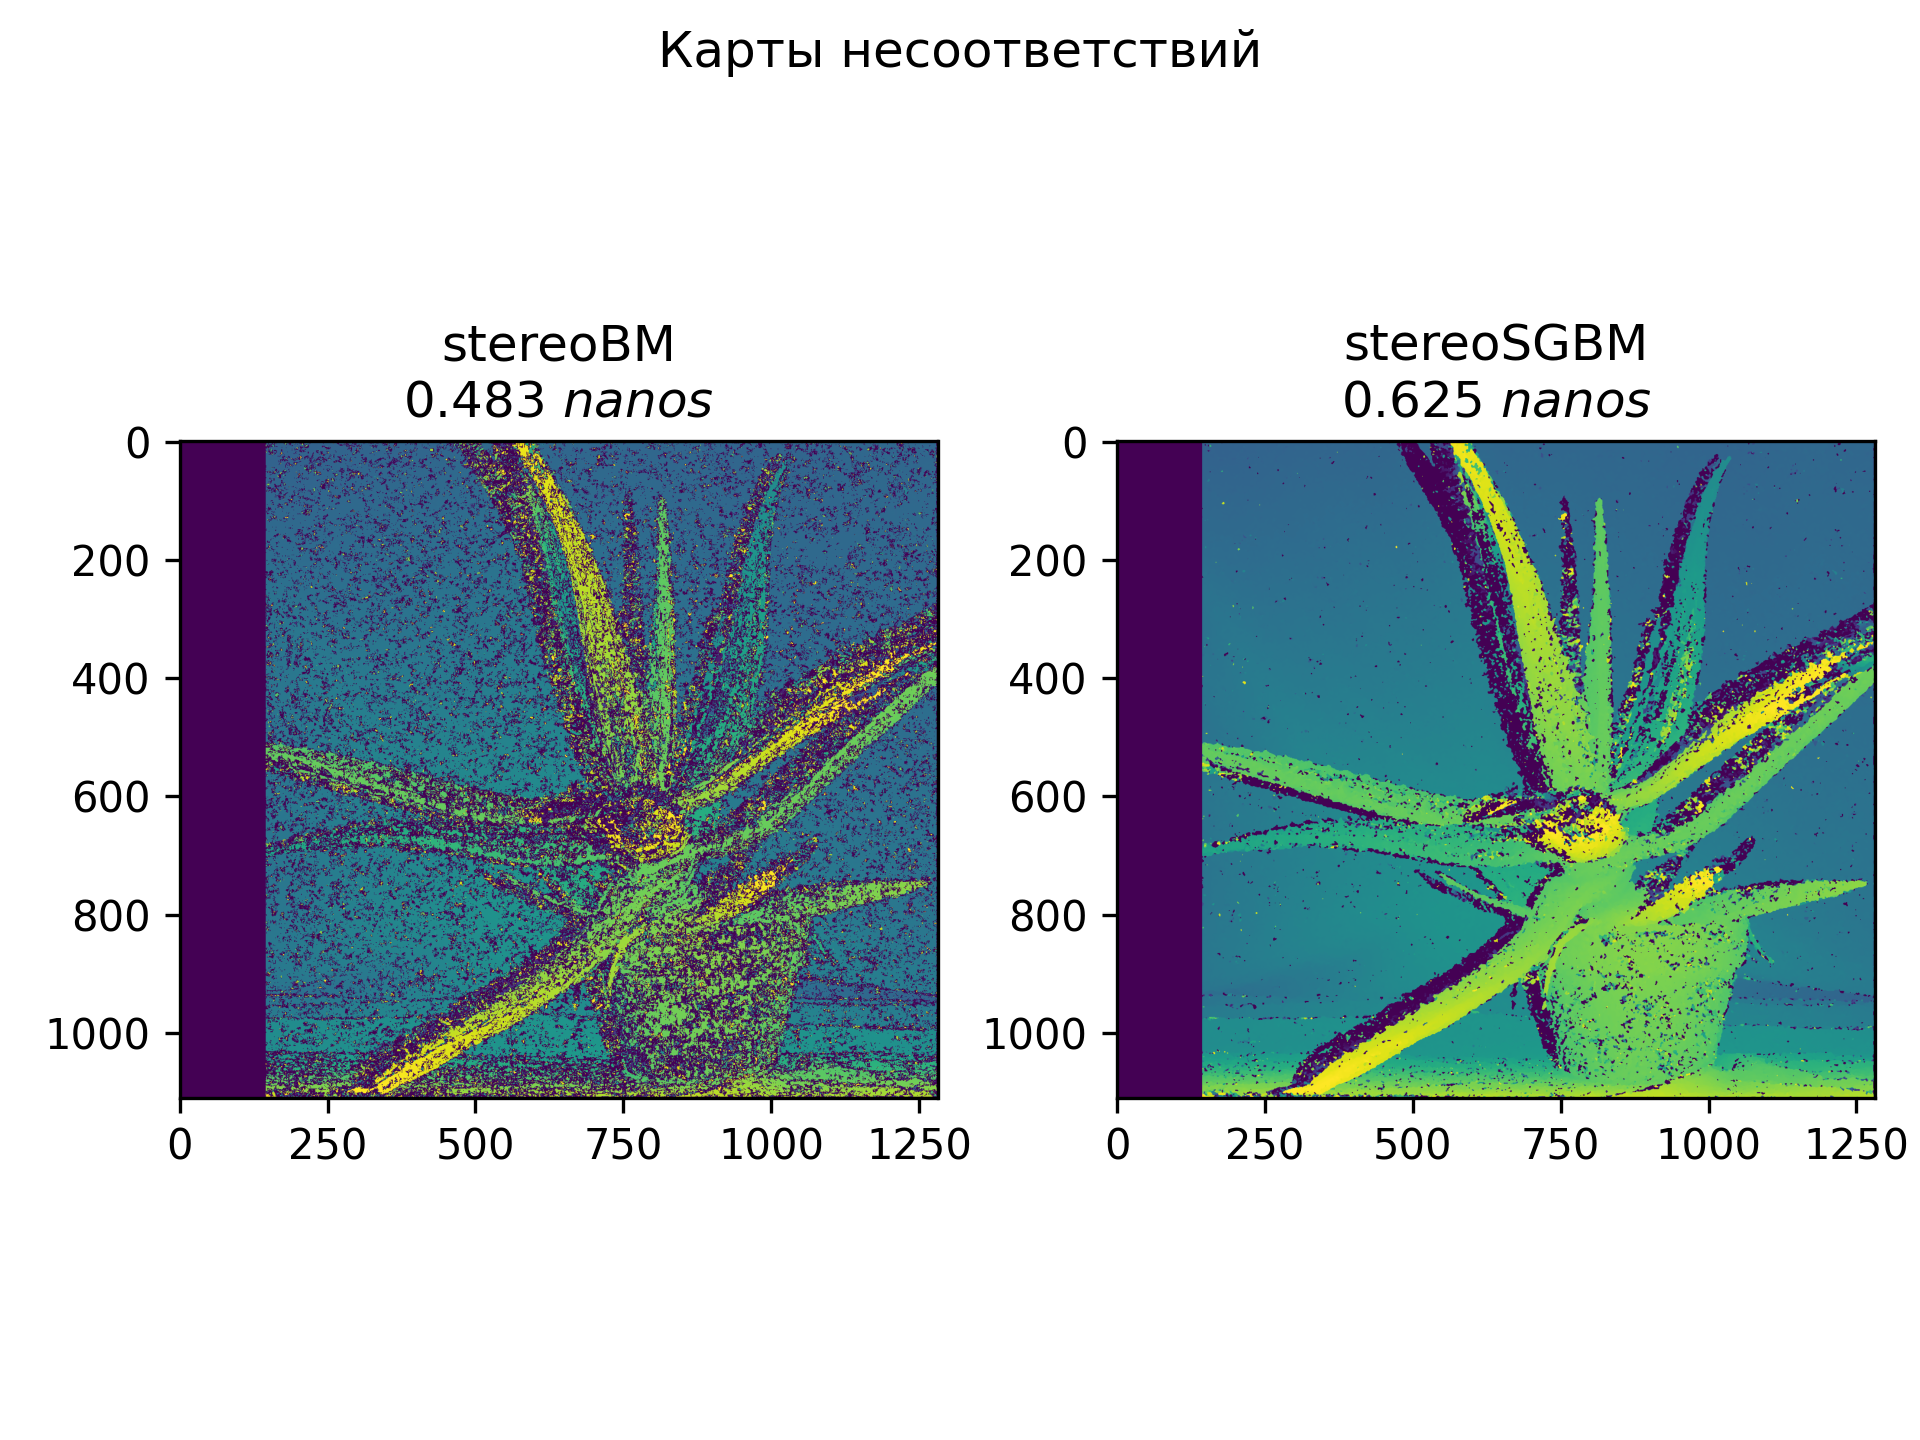
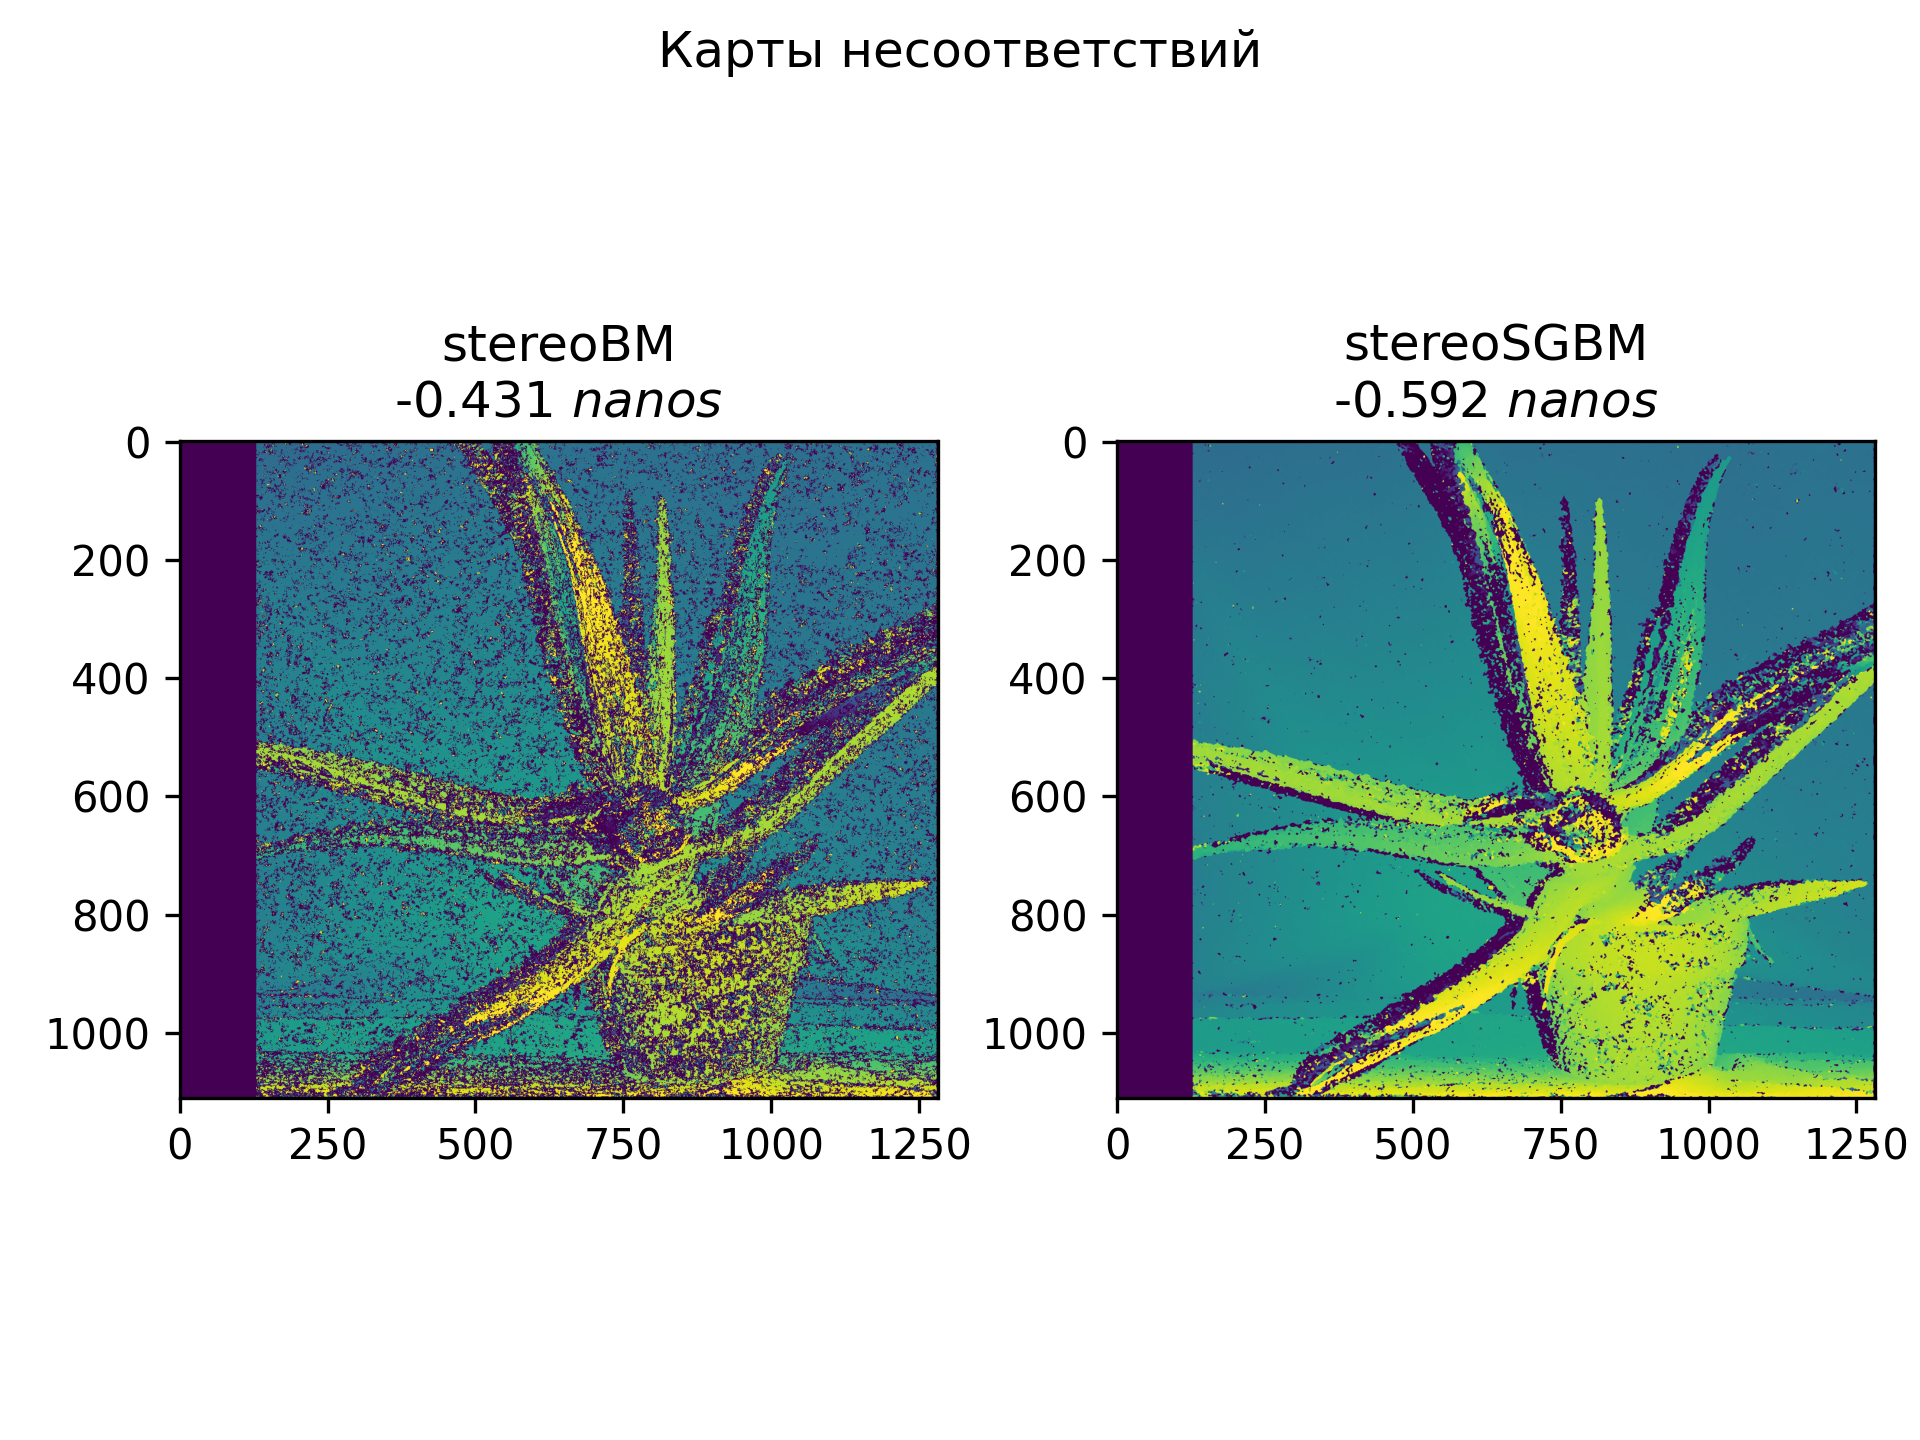
TODO added for fueiret(Good luck=))

Changed region(s): [[0.125, 0.25, 0.5, 0.7812], [0.5938, 0.25, 1.0, 0.7812]]

diff --git a/exp/main.py b/exp/main.py
@@ -1,0 +1,113 @@
+import numpy as np
+import cv2
+import matplotlib.pyplot as plt
+import matplotlib
+import time
+
+#============================Входные данные============================
+
+f = 1040.0              # фокусное расстояние (в пикселях)
+baseline = 85           # расстояние между камерами
+numDisparities = 128    # параметры поиска несоответсвий
+blockSize = 5           #
+scale = 0.8             # соотношение условных единиц глубины с реальными
+
+
+leftImageRaw = cv2.imread('../RobotDogStereoDemo/opencv_samples/aloeL.jpg')      # тестовые изображения
+rightImageRaw = cv2.imread('../RobotDogStereoDemo/opencv_samples/aloeR.jpg')     #
+
+
+#============================Получение карты несоответствий(BM and SGBM)============================
+
+
+leftImage = cv2.cvtColor(leftImageRaw, cv2.COLOR_BGR2GRAY)      # переводим в градации серого
+rightImage = cv2.cvtColor(rightImageRaw, cv2.COLOR_BGR2GRAY)    #
+
+bm_time_begin_dis = time.process_time()
+
+stereoBM = cv2.StereoBM_create(numDisparities=numDisparities, blockSize=blockSize)
+disparityBM = stereoBM.compute(leftImage, rightImage)   # получаем карту несоответствий
+
+bm_time_end_dis = time.process_time()
+dis_elapsed1 = (bm_time_begin_dis - bm_time_end_dis)
+
+sgbm_time_begin_dis = time.process_time()
+
+stereoSGBM = cv2.StereoSGBM_create(numDisparities=numDisparities, blockSize=blockSize)
+disparitySGBM = stereoSGBM.compute(leftImage, rightImage)   # получаем карту несоответствий
+
+sgbm_time_end_dis = time.process_time()
+dis_elapsed2 = (sgbm_time_begin_dis - sgbm_time_end_dis)
+
+fig, (dis_bm, dis_sgbm) = plt.subplots(1, 2)
+
+dis_bm.set_title(f'stereoBM\n{dis_elapsed1:.3f} $nano s$')
+dis_bm.imshow(disparityBM)
+
+dis_sgbm.set_title(f'stereoSGBM\n{dis_elapsed2:.3f} $nano s$')
+dis_sgbm.imshow(disparitySGBM)
+
+plt.suptitle("Карты несоответствий")
+plt.tight_layout()
+plt.savefig("../CV/figs/disparity_bm_vs_sgbm.png", dpi=300)
+plt.show()
+
+#============================Получение карты глубин============================
+
+validPixelsBM = disparityBM > 0     # избавляемся от деления на 0
+
+bm_time_begin_dep = time.process_time()
+
+depthBM = np.zeros(shape=leftImage.shape).astype("uint8")
+depthBM[validPixelsBM] = (f * baseline) / (scale * disparityBM[validPixelsBM])
+
+bm_time_end_dep = time.process_time()
+dep_elapsed1 = (bm_time_begin_dep - bm_time_end_dep)
+
+#Наводим красоты
+depthBM = cv2.equalizeHist(depthBM)
+colorDepthBM = np.zeros((leftImage.shape[0], leftImage.shape[1], 3), dtype="uint8")
+tmp = cv2.applyColorMap(depthBM, cv2.COLORMAP_JET)
+colorDepthBM[validPixelsBM] = tmp[validPixelsBM]
+
+
+validPixelsSGBM = disparitySGBM > 0     # избавляемся от деления на 0
+
+sgbm_time_begin_dep = time.process_time()
+
+depthSGBM = np.zeros(shape=leftImage.shape).astype("uint8")
+depthSGBM[validPixelsSGBM] = (f * baseline) / (scale * disparitySGBM[validPixelsSGBM])
+
+#Наводим красоты
+depthSGBM = cv2.equalizeHist(depthSGBM)
+colorDepthSGBM = np.zeros((leftImage.shape[0], leftImage.shape[1], 3), dtype="uint8")
+tmp = cv2.applyColorMap(depthSGBM, cv2.COLORMAP_JET)
+colorDepthSGBM[validPixelsSGBM] = tmp[validPixelsSGBM]
+
+sgbm_time_end_dep = time.process_time()
+dep_elapsed2 = (sgbm_time_begin_dep - sgbm_time_end_dep)
+
+fig, ((dep_bm, dep_sgbm), (color_dep_bm, color_dep_sgbm)) = plt.subplots(2, 2)
+
+# dep_bm.subplot(2,2,1)
+dep_bm.set_title(f'stereoBM\n{dep_elapsed1:.3f} $nano s$')
+dep_bm.imshow(depthBM)
+
+# dep_bm.subplot(2,2,2)
+color_dep_bm.set_title(f'stereoBM(color)')
+color_dep_bm.imshow(colorDepthBM)
+
+
+# dep_bm.subplot(2,2,3)
+dep_sgbm.set_title(f'stereoSGBM\n{dep_elapsed2:.3f} $nano s$')
+dep_sgbm.imshow(depthSGBM)
+
+# dep_bm.subplot(2,2,4)
+color_dep_sgbm.set_title(f'stereoSGBM(color)')
+color_dep_sgbm.imshow(colorDepthSGBM)
+
+
+plt.suptitle("Карты глубин")
+plt.tight_layout()
+plt.savefig("../CV/figs/depth_bm_vs_sgbm.png", dpi=300)
+plt.show()

diff --git a/CV/document.tex b/CV/document.tex
@@ -127,4 +127,16 @@
 	
 На рисунке видно что метод stereoSGBM точнее и у него меньше шума, но более долгая.  
 
+
+%TODO: Добавить надо сравнение для карты глубины то что то что оно было высчитано формулой которая сверху, потом 
+
+%TODO: напиши про это то что оно расскрашивается:
+
+%depthBM = cv2.equalizeHist(depthBM)
+%colorDepthBM = np.zeros((leftImage.shape[0], leftImage.shape[1], 3), dtype=``uint8'')
+%tmp = cv2.applyColorMap(depthBM, cv2.COLORMAP\_JET)
+%colorDepthBM[validPixelsBM] = tmp[validPixelsBM]
+
+
+
 \end{document}
